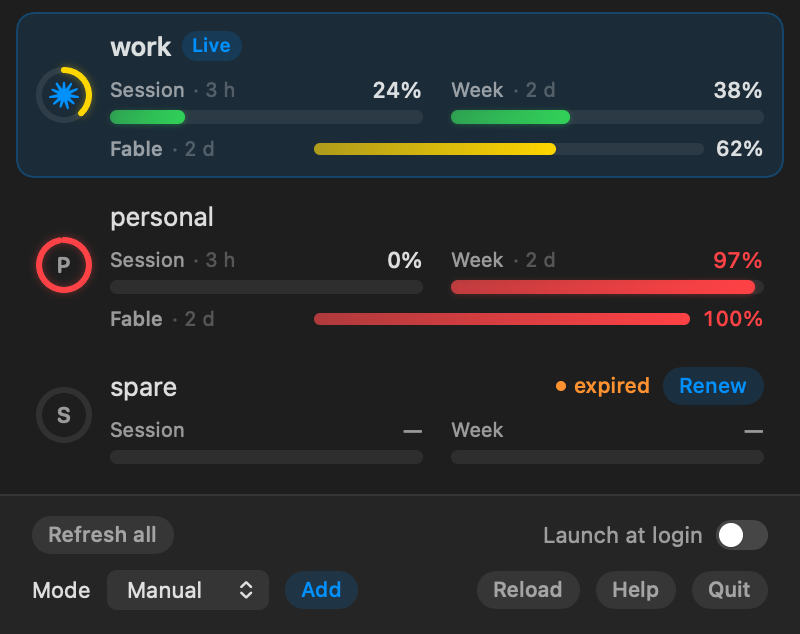
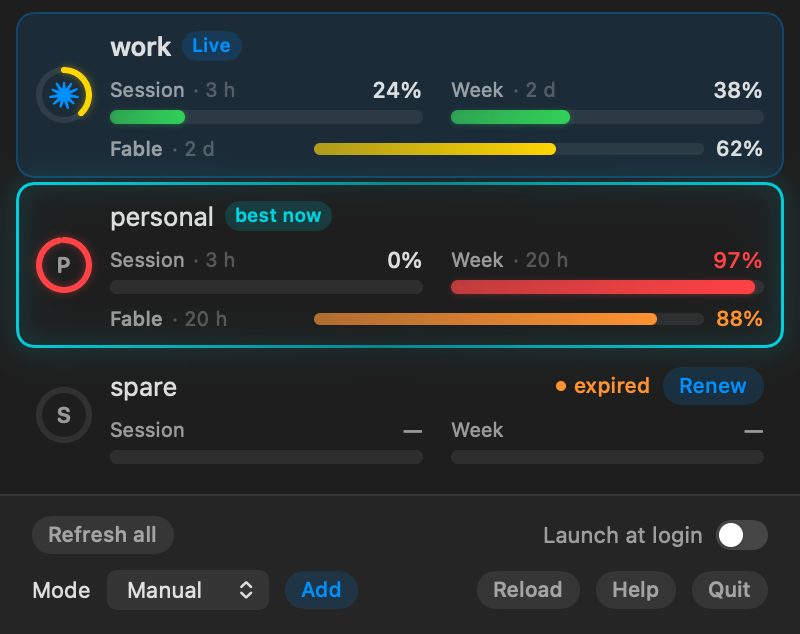
An aura on the account to use now
One row glows and says "best now": any account that can still run is a
candidate — 97% used is still usable — and the one whose week resets
soonest comes first, so what it has left is spent before the reset throws
it away. Ties go to the one with less left, then to the dragged order.
It only shows; no mode switches because of it. When Failover or Balance
land elsewhere, their sentence says where the aura is and why.

diff --git a/Tests/SwitcherCoreTests/BestPickTests.swift b/Tests/SwitcherCoreTests/BestPickTests.swift
@@ -1,0 +1,79 @@
+import Foundation
+import Testing
+@testable import SwitcherCore
+
+@Suite("Best pick")
+struct BestPickTests {
+    static let now = Date(timeIntervalSince1970: 1_800_000_000)
+    static func inHours(_ hours: Double) -> Date { now.addingTimeInterval(hours * 3600) }
+
+    @Test("97% used is still usable, and the week that ends first is milked first")
+    func nearlyEmptyButSoonestWins() {
+        let nearlyDone = PolicyAccount(name: "perso", order: 0, sessionPercent: 40, weeklyPercent: 97,
+                                       weeklyResetsAt: Self.inHours(20))
+        let fresh = PolicyAccount(name: "pro", order: 1, sessionPercent: 0, weeklyPercent: 0,
+                                  weeklyResetsAt: Self.inHours(150))
+        let pick = BestPick.choose([fresh, nearlyDone], now: Self.now)
+        #expect(pick?.name == "perso")
+        #expect(pick?.weeklyResetsAt == Self.inHours(20))
+    }
+
+    @Test("a used-up window closes the account, whatever its reset")
+    func usedUpIsClosed() {
+        let sessionOut = PolicyAccount(name: "a", sessionPercent: 100, weeklyPercent: 50,
+                                       weeklyResetsAt: Self.inHours(1))
+        let weekOut = PolicyAccount(name: "b", order: 1, sessionPercent: 10, weeklyPercent: 100,
+                                    weeklyResetsAt: Self.inHours(2))
+        let open = PolicyAccount(name: "c", order: 2, sessionPercent: 90, weeklyPercent: 99,
+                                 weeklyResetsAt: Self.inHours(100))
+        #expect(BestPick.choose([sessionOut, weekOut, open], now: Self.now)?.name == "c")
+        #expect(BestPick.choose([sessionOut, weekOut], now: Self.now) == nil)
+    }
+
+    @Test("no reading, dead credentials, or nothing at all: no pick")
+    func nothingToPickFrom() {
+        let unread = PolicyAccount(name: "unread")
+        let dead = PolicyAccount(name: "dead", sessionPercent: 0, weeklyPercent: 0, isUsable: false)
+        #expect(BestPick.choose([unread, dead], now: Self.now) == nil)
+        #expect(BestPick.choose([], now: Self.now) == nil)
+
+        let read = PolicyAccount(name: "read", order: 2, sessionPercent: 50)
+        #expect(BestPick.choose([unread, dead, read], now: Self.now)?.name == "read")
+    }
+
+    @Test("an unknown reset counts as a week away")
+    func unknownResetIsFar() {
+        let unknown = PolicyAccount(name: "unknown", order: 0, sessionPercent: 0, weeklyPercent: 10)
+        let known = PolicyAccount(name: "known", order: 1, sessionPercent: 0, weeklyPercent: 10,
+                                  weeklyResetsAt: Self.inHours(167))
+        #expect(BestPick.choose([unknown, known], now: Self.now)?.name == "known")
+
+        let farther = PolicyAccount(name: "farther", order: 1, sessionPercent: 0, weeklyPercent: 10,
+                                    weeklyResetsAt: Self.inHours(169))
+        #expect(BestPick.choose([unknown, farther], now: Self.now)?.name == "unknown")
+    }
+
+    @Test("same reset: the one with less left is finished first, then the listed order")
+    func tieBreaks() {
+        let more = PolicyAccount(name: "more", order: 0, sessionPercent: 0, weeklyPercent: 20,
+                                 weeklyResetsAt: Self.inHours(30))
+        let less = PolicyAccount(name: "less", order: 1, sessionPercent: 0, weeklyPercent: 80,
+                                 weeklyResetsAt: Self.inHours(30))
+        #expect(BestPick.choose([more, less], now: Self.now)?.name == "less")
+
+        let second = PolicyAccount(name: "second", order: 2, sessionPercent: 0, weeklyPercent: 80,
+                                   weeklyResetsAt: Self.inHours(30))
+        let first = PolicyAccount(name: "first", order: 1, sessionPercent: 0, weeklyPercent: 80,
+                                  weeklyResetsAt: Self.inHours(30))
+        #expect(BestPick.choose([second, first], now: Self.now)?.name == "first")
+    }
+
+    @Test("the live account can be the pick")
+    func liveCanWin() {
+        let live = PolicyAccount(name: "live", order: 0, sessionPercent: 30, weeklyPercent: 50,
+                                 weeklyResetsAt: Self.inHours(10))
+        let other = PolicyAccount(name: "other", order: 1, sessionPercent: 0, weeklyPercent: 0,
+                                  weeklyResetsAt: Self.inHours(100))
+        #expect(BestPick.choose([live, other], now: Self.now)?.name == "live")
+    }
+}

diff --git a/Sources/ClaudeAccountSwitcher/AppModel.swift b/Sources/ClaudeAccountSwitcher/AppModel.swift
@@ -556,15 +556,26 @@ extension AppModel {
             policyStatus = nil
             return
         }
-        // One clock for the whole decision, and the same rolled reading the row and the
-        // mark are drawn from: a window past its reset is empty again, so the raw
-        // snapshot would have the policy switch away from an account that has refilled.
         let now = Date()
-        let accounts = rows.filter { !$0.isFake }.enumerated().map { index, row in
+        let accounts = policyAccounts(now: now)
+        let decision = policy.evaluate(mode: mode, accounts: accounts, active: activeRow?.name,
+                                       now: now, lastSwitchAt: lastSwitchAt)
+        act(on: decision, accounts: accounts, now: now)
+    }
+}
+
+extension AppModel {
+    /// The rows as the policy and the pick see them, from the same rolled reading
+    /// the row and the mark are drawn from: a window past its reset is empty again,
+    /// so the raw snapshot would have the policy switch away from an account that
+    /// has refilled.
+    func policyAccounts(now: Date) -> [PolicyAccount] {
+        // A CAS_FAKE_ACCOUNTS row has no keychain item: neither a target nor a pick.
+        rows.filter { !$0.isFake }.enumerated().map { index, row in
             let usage = row.usage(now: now)
             return PolicyAccount(
                 name: row.name,
-                // The list order, which is the dragged one: the policy's tie-breaker.
+                // The list order, which is the dragged one: the tie-breaker.
                 order: index,
                 sessionPercent: usage?.sessionPercent,
                 weeklyPercent: usage?.weeklyPercent,
@@ -573,9 +584,13 @@ extension AppModel {
                 blockedForModelInUse: false,
                 isUsable: row.slot.health.isUsable)
         }
-        let decision = policy.evaluate(mode: mode, accounts: accounts, active: activeRow?.name,
-                                       now: now, lastSwitchAt: lastSwitchAt)
-        act(on: decision, accounts: accounts, now: now)
+    }
+
+    /// The account to use now (see `BestPick`), live or not. Only shown; it never
+    /// switches anything, whatever the mode.
+    var bestPick: BestPick.Pick? {
+        let now = Date()
+        return BestPick.choose(policyAccounts(now: now), now: now)
     }
 }
 
@@ -756,9 +771,9 @@ extension AppModel {
                 + (row.problem.map { " problem: \($0)" } ?? "")
         }.joined(separator: " | ")
         let label = MenuBarTitle.label(for: activeRow)
-        NSLog("[CAS] mark=%@ (%@) tooltip=\"%@\" wait=%ds | %@",
+        NSLog("[CAS] mark=%@ (%@) tooltip=\"%@\" wait=%ds pick=%@ | %@",
               label.tone.rawValue, label.toneSource.rawValue, label.text,
-              Int(budget.waitTime(now: now)), detail)
+              Int(budget.waitTime(now: now)), bestPick?.name ?? "none", detail)
     }
 }
 

diff --git a/Sources/ClaudeAccountSwitcher/PanelScreenshot.swift b/Sources/ClaudeAccountSwitcher/PanelScreenshot.swift
@@ -94,8 +94,8 @@ extension AppModel {
     }
 
     /// Three accounts that between them show everything the panel can say: one
-    /// live and comfortable, one nearly out of its week with a model spent, and
-    /// one whose token has expired and wears its own fix.
+    /// live and comfortable, one nearly out of a week that ends first — so it is
+    /// the one to use now — and one whose token has expired and wears its own fix.
     @MainActor
     static func demoRows(now: Date = Date()) -> [AccountRow] {
         func credentials(expired: Bool = false) -> OAuthCredentials {
@@ -106,7 +106,8 @@ extension AppModel {
                 scopes: ["user:profile", "user:inference"], subscriptionType: "max")
         }
         func row(_ name: String, active: Bool, health: CredentialHealth,
-                 session: Double?, weekly: Double?, model: Double?) -> AccountRow {
+                 session: Double?, weekly: Double?, model: Double?,
+                 weekEndsIn: TimeInterval = 212_000) -> AccountRow {
             let slot = Slot(name: name, isActive: active, health: health,
                             credentials: credentials(expired: health == .expired),
                             account: OAuthAccount(emailAddress: "\(name)@example.com",
@@ -120,12 +121,12 @@ extension AppModel {
                            resetsAt: now.addingTimeInterval(11_400)),
                 UsageLimit(kind: .weeklyAll, percent: weekly,
                            severity: weekly >= 92 ? .critical : weekly >= 78 ? .warning : .normal,
-                           resetsAt: now.addingTimeInterval(212_000)),
+                           resetsAt: now.addingTimeInterval(weekEndsIn)),
             ]
             if let model {
                 limits.append(UsageLimit(kind: .weeklyScoped, percent: model,
                                          severity: model >= 92 ? .critical : .normal,
-                                         resetsAt: now.addingTimeInterval(212_000),
+                                         resetsAt: now.addingTimeInterval(weekEndsIn),
                                          modelDisplayName: "Fable"))
             }
             row.usage = UsageSnapshot(limits: limits, fetchedAt: now.addingTimeInterval(-40))
@@ -135,7 +136,8 @@ extension AppModel {
         }
         return [
             row("work", active: true, health: .ok, session: 24, weekly: 38, model: 62),
-            row("personal", active: false, health: .ok, session: 0, weekly: 97, model: 100),
+            row("personal", active: false, health: .ok, session: 0, weekly: 97, model: 88,
+                weekEndsIn: 72_060),
             row("spare", active: false, health: .expired, session: nil, weekly: nil, model: nil),
         ]
     }

diff --git a/Sources/ClaudeAccountSwitcher/AccountRowView.swift b/Sources/ClaudeAccountSwitcher/AccountRowView.swift
@@ -32,6 +32,8 @@ struct AccountRowView: View {
     }
 
     let row: AccountRow
+    /// The account to use now: it wears an aura and says so.
+    var isBest = false
     /// Set while the panel is drawn to a PNG: `ImageRenderer` paints a draggable
     /// view in its "cannot drop here" state, an artefact of rendering offscreen.
     var isRendering = false
@@ -115,9 +117,10 @@ struct AccountRowView: View {
     /// Hover text, for the day a non-activating panel is allowed one: what a
     /// click does, and how old the numbers are when they are not fresh.
     private var tooltip: String {
-        let base = canAct ? "Switch to \(row.name)"
+        var base = canAct ? "Switch to \(row.name)"
             : row.slot.isActive ? "\(row.name) is the live login"
             : "\(row.name): \(row.slot.health.label)"
+        if isBest { base += " · best now: still usable and first to reset" }
         guard let age = row.age() else { return base }
         return "\(base) · numbers \(MenuBarLabel.ageText(age))"
     }
@@ -160,6 +163,7 @@ struct AccountRowView: View {
                 .lineLimit(1)
                 .truncationMode(.middle)
             if row.slot.isActive { pill("Live", colour: .accentColor) }
+            if isBest { pill("best now", colour: Palette.auraInk) }
             if row.isFake { pill("demo", colour: .secondary) }
         }
     }
@@ -379,7 +383,21 @@ extension AccountRowView {
                 RoundedRectangle(cornerRadius: 9, style: .continuous)
                     .strokeBorder(Color.accentColor.opacity(row.slot.isActive ? 0.26 : 0),
                                   lineWidth: 1))
+            .overlay(aura)
             .animation(.easeOut(duration: 0.22), value: row.slot.isActive)
+            .animation(.easeOut(duration: 0.35), value: isBest)
+    }
+
+    /// The aura: a soft ring and glow around the account to use now, so the eye
+    /// lands on it before reading a single number.
+    @ViewBuilder private var aura: some View {
+        if isBest && !isRenaming && !isRemoving {
+            RoundedRectangle(cornerRadius: 9, style: .continuous)
+                .strokeBorder(Palette.auraStroke, lineWidth: 1.5)
+                .shadow(color: Palette.aura.opacity(0.55), radius: 5)
+                .shadow(color: Palette.aura.opacity(0.25), radius: 12)
+                .allowsHitTesting(false)
+        }
     }
 
     private var fillColour: Color {

diff --git a/Sources/SwitcherCore/BestPick.swift b/Sources/SwitcherCore/BestPick.swift
@@ -1,0 +1,41 @@
+import Foundation
+
+/// The account to use right now.
+///
+/// Any account that can still run is a candidate — 97% used is still usable, and
+/// what is left is meant to be spent, not saved. Among them the one whose weekly
+/// window resets soonest comes first: whatever it has left is lost at that reset,
+/// so it is milked before the others. A used-up model-scoped limit changes nothing
+/// here: the other models still run there, and the row's own bar says which is out.
+public enum BestPick {
+    public struct Pick: Equatable, Sendable {
+        public var name: String
+        /// When the week that decided it resets; nil when the endpoint gave none.
+        public var weeklyResetsAt: Date?
+    }
+
+    public static func choose(_ accounts: [PolicyAccount], now: Date) -> Pick? {
+        let open = accounts.filter(\.isOpen)
+        guard let best = open.min(by: { sooner($0, $1, now: now) }) else { return nil }
+        return Pick(name: best.name, weeklyResetsAt: best.weeklyResetsAt)
+    }
+
+    /// Soonest weekly reset first; a reset the endpoint did not give is treated as a
+    /// whole week away. Then the one with less left, so it is finished rather than
+    /// left with a remainder; then the listed order, so a drag decides a tie.
+    static func sooner(_ a: PolicyAccount, _ b: PolicyAccount, now: Date) -> Bool {
+        let ra = a.hoursUntilWeeklyReset(now: now) ?? PolicyAccount.unknownResetHorizonHours
+        let rb = b.hoursUntilWeeklyReset(now: now) ?? PolicyAccount.unknownResetHorizonHours
+        if ra != rb { return ra < rb }
+        if a.weeklyRemaining != b.weeklyRemaining { return a.weeklyRemaining < b.weeklyRemaining }
+        return a.order < b.order
+    }
+}
+
+extension PolicyAccount {
+    /// Work can run here now: the credentials are good, something has been read,
+    /// and neither window that stops everything is used up.
+    public var isOpen: Bool {
+        isUsable && hasReading && (sessionPercent ?? 0) < 100 && (weeklyPercent ?? 0) < 100
+    }
+}

diff --git a/Sources/ClaudeAccountSwitcher/AutoSwitchRunner.swift b/Sources/ClaudeAccountSwitcher/AutoSwitchRunner.swift
@@ -25,10 +25,17 @@ extension AppModel {
                                    state: autoState, now: now, lastSwitchAt: lastSwitchAt)
         switch verdict {
         case .act(let target):
+            // The aura ranks by soonest reset; the modes rank by quota left per hour.
+            // When they disagree the sentence says so, so a switch away from the
+            // aura never looks like a mistake.
+            var reason = decision.reason
+            if let pick = BestPick.choose(accounts, now: now)?.name, pick != target {
+                reason += " (the aura stays on \(pick), first to reset; \(mode.title) ranks by quota per hour)"
+            }
             policyStatus = PolicyStatus(headline: armedHeadline,
-                                        detail: "switching to \(target) — \(decision.reason)",
+                                        detail: "switching to \(target) — \(reason)",
                                         isHolding: false)
-            automaticSwitch(to: target, reason: decision.reason)
+            automaticSwitch(to: target, reason: reason)
         case .hold(let refusal):
             recordHeld(decision, held: refusal.text)
             policyStatus = status(for: decision, refusal: refusal)

diff --git a/Sources/ClaudeAccountSwitcher/PanelStyle.swift b/Sources/ClaudeAccountSwitcher/PanelStyle.swift
@@ -40,6 +40,21 @@ enum Palette {
     }
 
     /// A gauge is a gradient, not a flat block: it gives the capsule its shape.
+    /// The aura around the account to use now: not the gauges' green, not a warning's
+    /// amber, and not the accent, which the owner may have set to either.
+    static let aura = Color(nsColor: .systemTeal)
+    static var auraStroke: LinearGradient {
+        LinearGradient(colors: [aura, aura.opacity(0.55), aura],
+                       startPoint: .topLeading, endPoint: .bottomTrailing)
+    }
+    /// The pill's ink: systemTeal is 2:1 on white, so in light mode the words get a
+    /// deeper teal of the same hue; dark mode keeps systemTeal, already 6:1 there.
+    static let auraInk = Color(nsColor: NSColor(name: nil) { appearance in
+        appearance.bestMatch(from: [.aqua, .darkAqua]) == .darkAqua
+            ? .systemTeal
+            : NSColor(srgbRed: 10 / 255, green: 99 / 255, blue: 112 / 255, alpha: 1)
+    })
+
     static func fill(_ colour: Color) -> LinearGradient {
         LinearGradient(colors: [colour.opacity(0.62), colour],
                        startPoint: .leading, endPoint: .trailing)

diff --git a/Sources/ClaudeAccountSwitcher/MenuContentView.swift b/Sources/ClaudeAccountSwitcher/MenuContentView.swift
@@ -83,6 +83,7 @@ extension MenuContentView {
 
                 AccountRowView(
                     row: row,
+                    isBest: model.bestPick?.name == row.name,
                     isRendering: isRendering,
                     isBusy: model.busySlot == row.name,
                     hasUnstoredTokens: model.unstoredSlots.contains(row.name),
@@ -158,6 +159,7 @@ extension MenuContentView {
     /// Opt-in, and only what is true: the panel's own controls say what they do.
     private var help: some View {
         VStack(alignment: .leading, spacing: 5) {
+            legend("Aura", "use this one now: still usable, first to reset")
             legend("Click", "switch to that account")
             legend("⌥-click", "see the steps first")
             legend("Drag", "reorder the list")

diff --git a/docs/DESIGN.md b/docs/DESIGN.md
@@ -341,6 +341,20 @@ terminal.
 - A login whose email is already stored under another name gets a warning: two slots for one
   account share one quota and the panel would double-count it.
 
+### 4.8b The aura says which account to use now
+
+One row wears an aura and the words "best now". The rule (`BestPick`) is the owner's: any
+account that can still run is a candidate — 97% used is still usable, and what is left is
+meant to be spent — and among them the one whose weekly window resets soonest comes first,
+because whatever it has left is lost at that reset. A used-up model-scoped limit changes
+nothing: the other models still run there, and the row's own bar says which is out. Ties go
+to the one with less left, so it is finished, then to the dragged order. It is drawn from the
+same rolled reading as the bars, and it only shows: no mode switches because of it. It is not
+the modes' rule (§4.9), which weighs what is left against the hours until reset; when an armed
+mode lands elsewhere, its sentence in the footer, the log and the notification says where the
+aura is and why they differ. The aura answers "what do I click now", Balance answers "where
+should new work go over the week".
+
 ### 4.9 Automatic switching is armed, capped, and disarms itself
 
 Manual is the default and switches nothing. Failover and Balance may switch on their own, and

diff --git a/README.md b/README.md
@@ -40,7 +40,8 @@ Requires macOS 14 or later.
 
 ## Usage
 
-Click the mark in the menu bar to open the panel. Click an account to switch to it; **More**
+Click the mark in the menu bar to open the panel. The row with an aura is the account to use
+now: still usable, and the first whose week resets. Click an account to switch to it; **More**
 on a row renews, renames or removes it; drag rows to reorder. **Add account** signs in through
 the browser. New `claude` sessions use the new login straight away.
 
